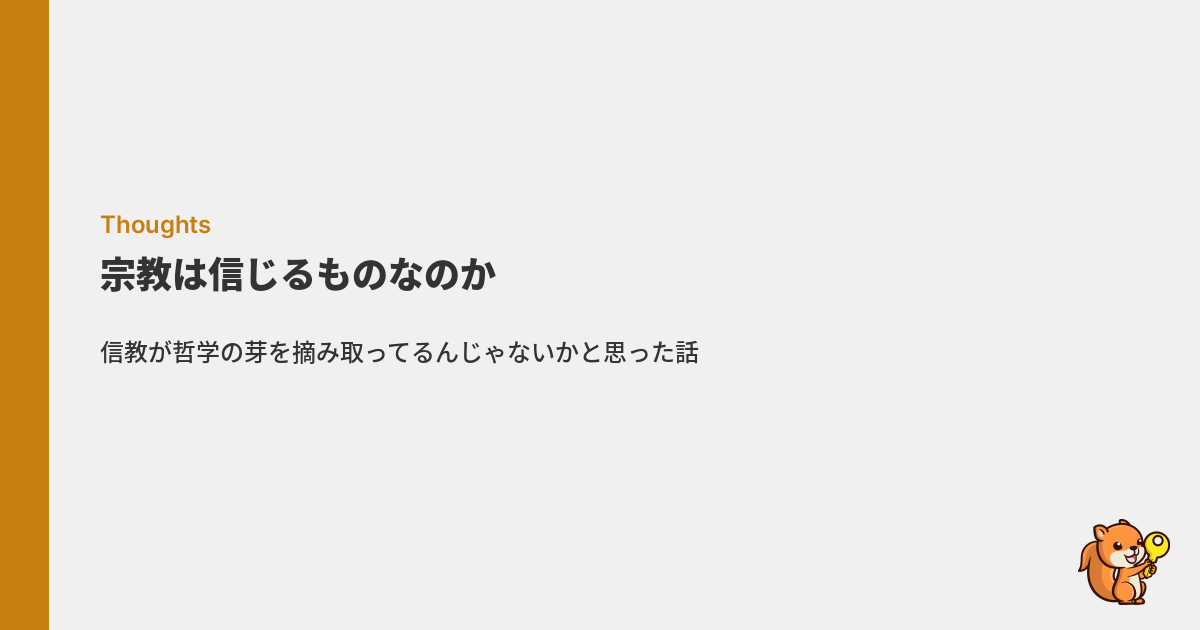
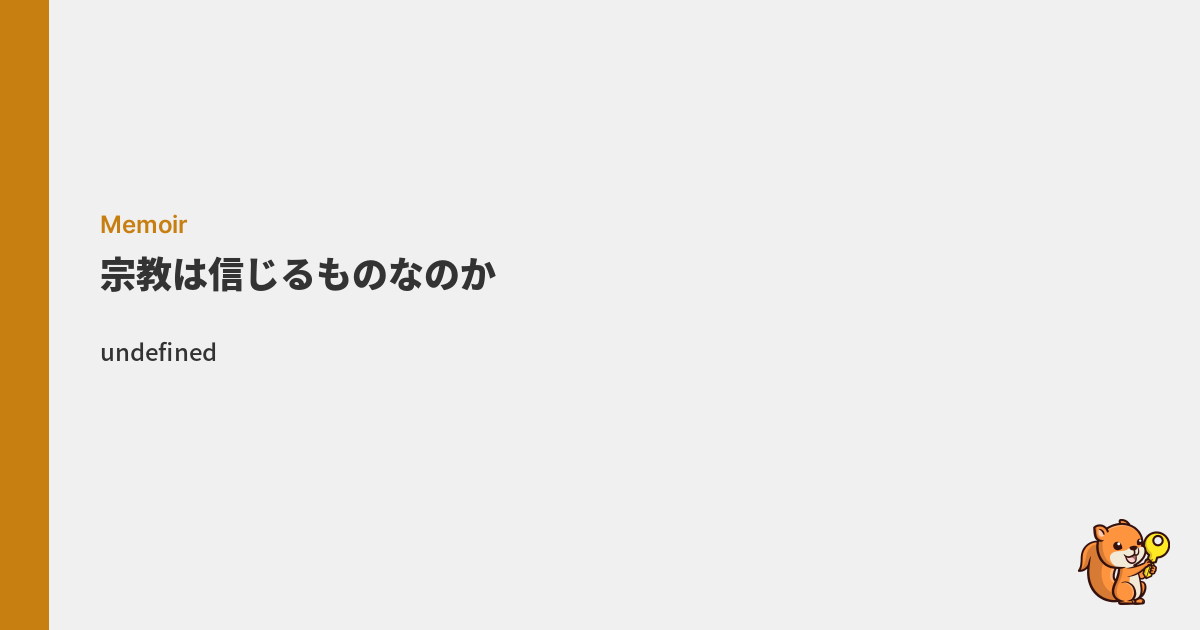
Add religious-pt2

Changed region(s): [[0.0617, 0.5429, 0.5858, 0.573], [0.0617, 0.3317, 0.185, 0.3921]]

diff --git a/src/contents/posts/religious-pt2.md b/src/contents/posts/religious-pt2.md
@@ -1,0 +1,39 @@
+---
+title: アンチ宗教 pt.2
+date: 2025-12-29
+category: Memoir
+description: 4年の月日を経た思想の変化
+ogp: religious-pt2
+---
+
+4年前の8月，まだ高校生だった頃に[アンチ宗教](/posts/religious)という文章を書いた．当時，高校の歴史の授業であらゆる紛争が宗教にまつわるものであるというのを知り，「そんな戦争ばかり起こすふざけた組織があって良いのか」と思い立ってああいう文章が出来上がったのだが，4年が経ってかなり考えが変わった．以下4年前の記事をpt.1とする．
+
+## 前提
+そもそもpt.1は主にキリスト教を想定して書いたものである．古代からその起源，科学との共存の歴史を最も安易に辿れる宗教がキリスト教だったというだけで，全ての宗教が「神という存在の元，強制的にそれ（自然現象）を説明づけようとする」わけではない．例えば仏教では超自然的な存在を置かない．ブッダは世界の創造主ではない．代わりに縁起や無常，無我といった概念によって存在意義や自然の摂理への答えを与える（道を示すと言ったほうが正しいかもしれない）．仏教における縁起というのは自然の摂理の説明のように思えるが，これは，僕の解釈では観察の結果であり，定義をしているわけではない．
+
+そういうわけで，キリスト教と西洋の歴史だけを見て「アンチ宗教」という文章を書くのは浅学な高校生ならではで，あまり生産的な批判ではないなと4年を経て思った．
+
+## 信教の理由
+pt.1では「自然の不条理に理由をつけるために神という超自然的なものを創り上げ，それが宗教の元になっている」と述べていたが，これは現代の多くの信教の理由には当てはまらないように思う．
+
+古代では確かに，[コスモス](https://ja.wikipedia.org/wiki/%E3%82%B3%E3%82%B9%E3%83%A2%E3%82%B9_(%E5%AE%87%E5%AE%99%E8%A6%B3))を定義し，秩序ある宇宙観を作り上げていた．そこに科学的根拠は乏しく，科学の進歩によってコスモスは崩壊した．
+
+>新しい学問が、全てのものに懐疑をかけるようになり、その結果、火という元素 は、すっかり消えてしまった。太陽が失われて、地球も行方不明となり、賢い人 でも、誰一人、何処にそれを探したらよいのか、分からない。人々は、はばかる ことなく、この世はお終いだと言う。惑星でも、恒星でも、今までは知られな かったものが、次々と発見されるからである。 人々は、この世は再びばらばらの 原子の粒子に帰ったと感じているのである。全てが粉々の破片となって、あらゆ る統ーが失われた。全ての公正な相互扶助も、全ての相関関係も喪失した。王様 も、家臣も、父親も、息子も、忘れられてしまった。あらゆる人間が、自分だけ が、フェニックスのような存在であると考えている。すなわち、自分を除いては、 誰も同じ種の者はあり得ないと、誇っているのである
+>
+> 一周忌の歌（この世の解剖）
+
+しかし，コスモスが崩壊したからと言って宗教が消滅したわけではない．むしろ，科学の進歩によって文明が進歩し，職業が増え，社会における自分の立ち位置が不確実になればなるほど，宗教の需要が増したと言える．哲学と密接に関わっていた古代においては，「自分とは何か」「世界とは何か」といった根源的な問いに答えるための仮説の役割を担っていた宗教が，科学の進歩とともにその役割を終え，「救いとしての宗教」として発展していったと考えられるのである．
+
+救いとしての宗教は，自分自身の存在意義を与えてくれる．科学は，命は繁殖の結果であり繁殖の能力を持ち，代謝を行う存在であるという定義を与える．しかし，「なぜ命があるのか」「命に意味はあるのか」と言った問いには答えてくれない．古代でも現代でもおそらく，悩みに悩んだ人間が行き着く問いは「なんで自分は生きているんだ」という問いだと思うが，これに答えを与えてくれる，もしくは道を示してくれるのは宗教だけである．
+
+もっというと，科学と，救いとしての宗教は共存しうる．科学は自然現象の具体的な解釈手段として，宗教はその上のレイヤーで，なぜ生きるのかといったような問いへの解答手段として存在できると思うし，そうやって続いている宗教もある．
+
+つまり，pt.1で述べていた理由づけのための宗教という側面は現代ではあまり無く，救いとして，もしくは自己規律のために宗教が存在しているのではないかというのが4年経った僕の見解である．
+
+## 筋トレ
+僕は3年ほど前から筋トレを始めた．筋トレに関する科学というのはかなり進んでいて，主に生理学，スポーツ科学の二分野で定量的，定性的な研究が進んでいる．トレーニングメニューの組み方はかなり論文に基づいて組むというのができるようになっているが，メニューを組むというのとトレーニングをするというのは全く別の話である．トレーニング中に，メニュー上はあと何レップやるべきだと分かっていても，もうバーベルが上がらない時は当然ある．そういう時に，「もっとやった方が良いと証明されている」から頑張るのと，「自分は大きくなれると信じている」から頑張るのでは，圧倒的に後者の方が力が出るということに気がついた．そしてその時に，何かを信じるということが，pt.1で述べているような現実からの逃避だけには留まらない力を持つことを知った．
+
+これは宗教というよりも信じるという行為に対する思想の変化だが，pt.1を書いたときはそれさえも真っ向から否定していたので，これも4年の月日を経て変化した思想の一つである．
+
+## まとめ
+このpt.2で伝えたいことというのは特になくて，僕は4年が経って色々思想が変わりましたよというただそれだけなのだが，本と経験が積まれていくことで，短絡的だった思想がどんどん深くなっていくというのは，体験するととても楽しいものだと思う．来年もよろしくお願いします．良いお年を．

diff --git a/src/contents/posts/religious.md b/src/contents/posts/religious.md
@@ -1,9 +1,9 @@
 ---
-title: 宗教は信じるものなのか
+title: アンチ宗教
 date: 2021-08-10
 category: Memoir
-description: 信教が哲学の芽を摘み取ってるんじゃないかと思った話
-ogp: golf
+description: 宗教とは何のためにあるのか
+ogp: religious
 ---
 
 宗教というのは概して，「人生とは何か」とか「なぜ世界が存在するのか」とかいう哲学的な問いに対して答えをくれる．それは元々，まだ人間が自然に対抗したり共存したりするほどの知恵を蓄えていなかった頃に，自然の不条理に理由をつけるために神という超自然的なものを創り上げ，それが宗教の元になっているからである．超自然的ということはつまり，自然をも掌握する存在であり，神を起点に考えればこの世の全ての事象について説明がつくのである．科学（=人間の知恵）は間違いなく進歩しているが，当然自然の摂理全てを説明づけるほどの境地には達していない．だからこそ哲学者は未知の領域について科学者と同様に興味を示し，思考する．他方宗教は神という存在の元，強制的にそれを説明づけようとする．
